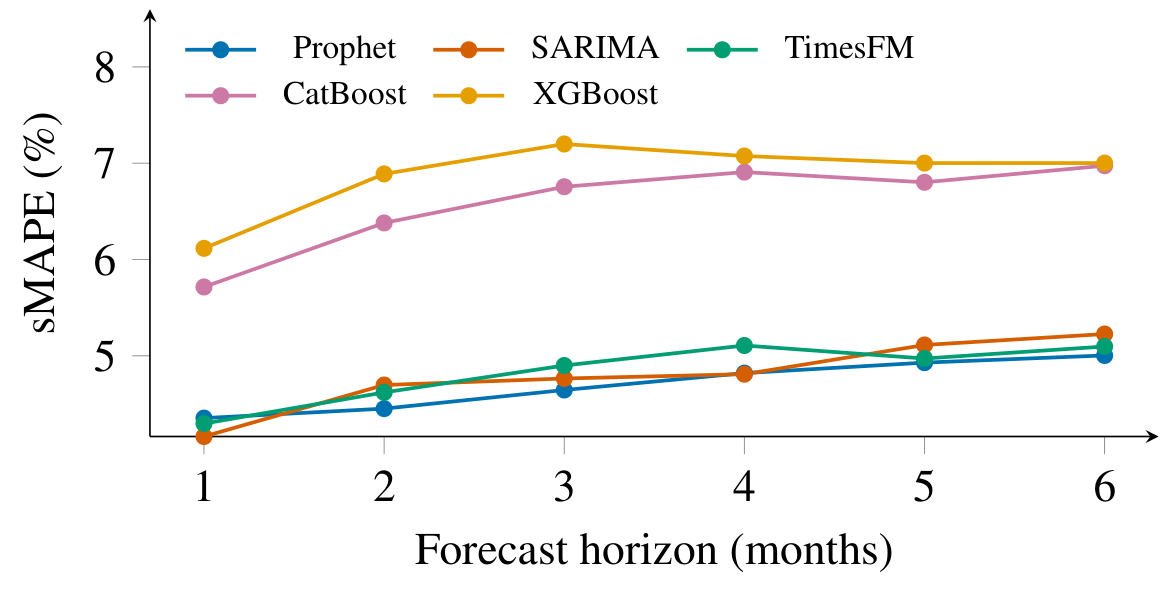
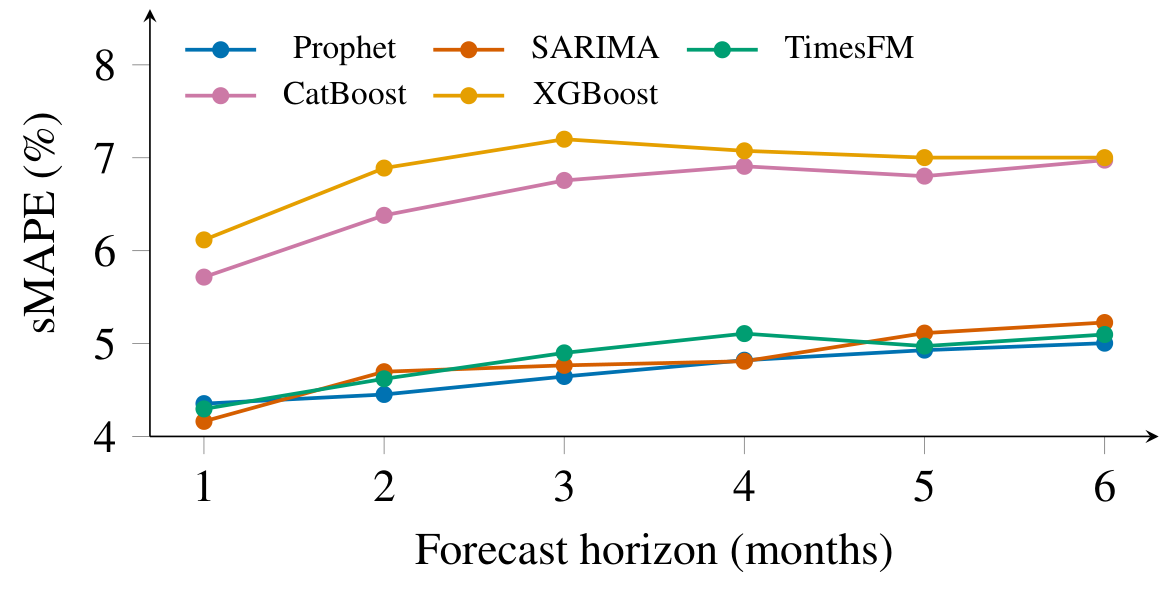
O Prophet entra na figura da temperatura, e a fig3 ganha o eixo que faltava
A Figura 6 mostrava tres modelos e a Tabela 5 tem quatro. O Prophet ficava de fora da
lista desde quando estava fora da comparacao inteira, por um motivo que a revisao
mostrou nao proceder; a tabela foi corrigida e a figura nao. Como o Prophet e o unico
modelo que a covariavel piora, a figura mostrava so ganhos positivos e contava o
oposto da tabela ao lado dela. Com ele, as quatro linhas ficam ordenadas pela
sazonalidade que cada especificacao ja carrega, e o gradiente que sustenta o
argumento do mecanismo passa a ser visivel: negativo no Prophet, que ajusta
sazonalidade anual explicita, maior nos dois boosters, cujos unicos atributos sao doze
defasagens.

A legenda da figura estava duplamente velha: dizia "all three intervals" e repetia que
nenhum atinge o limiar por horizonte. Sao quatro, o do Prophet contem zero, e o
XGBoost atinge desde a regeneracao. Era a mesma afirmacao que ja fora corrigida no
corpo do texto, sobrevivendo na legenda.

Na Figura 3 nao havia ymin nem ytick explicitos. A escolha automatica punha a marca
mais baixa em 5 e deixava os tres modelos lideres abaixo dela, sem referencia de
leitura, com o ponto do SARIMA em h=1 encostado no eixo.

diff --git a/scripts/build_paper_assets.py b/scripts/build_paper_assets.py
@@ -744,7 +744,10 @@ this comparison rather than being given an input it would ignore.
   axis lines=left, tick align=outside, tick pos=left,
   legend style={{at={{(0.02,0.98)}}, anchor=north west, draw=none, fill=none,
                  font=\scriptsize, legend columns=3, column sep=4pt}},
-  ymax=8.6,
+  ymin=4, ymax=8.6, ytick={{4,5,6,7,8}},
+  % Sem o ymin e o ytick explicitos, a escolha automatica punha a marca mais baixa em
+  % 5 e os tres modelos lideres ficavam abaixo dela, sem nenhuma referencia de leitura,
+  % com o ponto do SARIMA em h=1 encostado no eixo.
 ]
 {chr(10).join(series_h)}
 \legend{{{','.join(leg)}}}
@@ -828,7 +831,14 @@ this comparison rather than being given an input it would ignore.
 \end{{tikzpicture}}""")
 
     # ---------- fig6: efeito da temperatura ----------
-    mods = ["sarima", "catboost", "xgboost"]
+    # O Prophet entra. Ele ficava de fora desta lista desde quando estava fora da
+    # comparacao inteira, por um motivo que a revisao mostrou nao proceder. A Tabela 5
+    # foi corrigida e passou a ter as quatro linhas; a figura nao, e ficou mostrando so
+    # os tres ganhos positivos. Como o Prophet e o unico modelo que a covariavel piora,
+    # e como e nele que o argumento do mecanismo se apoia -- o ganho e inverso a
+    # sazonalidade que o modelo ja tem --, omiti-lo fazia a figura contar o oposto da
+    # tabela ao lado.
+    mods = ["prophet", "sarima", "catboost", "xgboost"]
     linhas = []
     for i, m in enumerate(mods):
         y = len(mods) - i
@@ -842,19 +852,19 @@ this comparison rather than being given an input it would ignore.
     labs = ",".join(ROTULO[m] for m in mods)
     escreve_figura("fig6_temperatura", rf"""\begin{{tikzpicture}}
 \begin{{axis}}[
-  width=0.78\textwidth, height=3.8cm,
+  width=0.78\textwidth, height=4.6cm,
   xlabel={{Reduction in sMAPE from the temperature covariate (pp)}},
-  xmin=-0.06, xmax=0.62,
+  xmin=-0.12, xmax=0.62,
   % com valores pequenos o pgfplots gera tick automatico em notacao cientifica
   % (-5 \cdot 10^{-2}) e os rotulos colidem. Tick e formato explicitos.
-  xtick={{0,0.1,0.2,0.3,0.4,0.5,0.6}},
+  xtick={{-0.1,0,0.1,0.2,0.3,0.4,0.5,0.6}},
   scaled x ticks=false,
   xticklabel style={{/pgf/number format/fixed, /pgf/number format/precision=1}},
-  ymin=0.4, ymax=3.6, ytick={{{ticks}}}, yticklabels={{{labs}}},
+  ymin=0.4, ymax=4.6, ytick={{{ticks}}}, yticklabels={{{labs}}},
   axis lines=left, tick align=outside, tick pos=left,
 ]
 \draw[black!45, dashed, line width=0.6pt]
-  (axis cs:0,0.4) -- (axis cs:0,3.6);
+  (axis cs:0,0.4) -- (axis cs:0,4.6);
 {chr(10).join(linhas)}
 \end{{axis}}
 \end{{tikzpicture}}""")

diff --git a/paper/figures/fig6_temperatura.tex b/paper/figures/fig6_temperatura.tex
@@ -1,19 +1,21 @@
 % gerado por scripts/build_paper_assets.py -- nao editar a mao
 \begin{tikzpicture}
 \begin{axis}[
-  width=0.78\textwidth, height=3.8cm,
+  width=0.78\textwidth, height=4.6cm,
   xlabel={Reduction in sMAPE from the temperature covariate (pp)},
-  xmin=-0.06, xmax=0.62,
+  xmin=-0.12, xmax=0.62,
   % com valores pequenos o pgfplots gera tick automatico em notacao cientifica
   % (-5 \cdot 10^-2) e os rotulos colidem. Tick e formato explicitos.
-  xtick={0,0.1,0.2,0.3,0.4,0.5,0.6},
+  xtick={-0.1,0,0.1,0.2,0.3,0.4,0.5,0.6},
   scaled x ticks=false,
   xticklabel style={/pgf/number format/fixed, /pgf/number format/precision=1},
-  ymin=0.4, ymax=3.6, ytick={3,2,1}, yticklabels={SARIMA,CatBoost,XGBoost},
+  ymin=0.4, ymax=4.6, ytick={4,3,2,1}, yticklabels={Prophet,SARIMA,CatBoost,XGBoost},
   axis lines=left, tick align=outside, tick pos=left,
 ]
 \draw[black!45, dashed, line width=0.6pt]
-  (axis cs:0,0.4) -- (axis cs:0,3.6);
+  (axis cs:0,0.4) -- (axis cs:0,4.6);
+\addplot[draw=cprophet, line width=2.0pt, mark=none] coordinates {(-0.0808,4) (0.0129,4)};
+\addplot[only marks, mark=*, mark size=2.2pt, draw=cprophet, fill=cprophet] coordinates {(-0.0346,4)};
 \addplot[draw=csarima, line width=2.0pt, mark=none] coordinates {(0.0340,3) (0.2573,3)};
 \addplot[only marks, mark=*, mark size=2.2pt, draw=csarima, fill=csarima] coordinates {(0.1358,3)};
 \addplot[draw=ccatboost, line width=2.0pt, mark=none] coordinates {(0.0728,2) (0.4519,2)};

diff --git a/paper/manuscript.tex b/paper/manuscript.tex
@@ -573,9 +573,12 @@ what it was adding to the boosting models was the calendar.
 \input{figures/fig6_temperatura}
 \caption{Reduction in sMAPE from adding monthly minimum temperature as an exogenous
 covariate under the leakage-free climatology policy, with 95\% paired bootstrap intervals.
-Positive values favour the model with temperature. All three intervals exclude zero, which
-is why the effect is reported as suggestive rather than absent, and none clears the
-pre-declared horizon-level threshold, which is why it is not reported as established.}
+Positive values favour the model with temperature. The four models are ordered by how much
+seasonal structure their specification already carries, and the gain grows as that
+structure falls away: it is negative for Prophet, which fits an explicit annual
+seasonality, and largest for the two boosting models, whose only inputs are twelve lags.
+Three intervals exclude zero, but only XGBoost also reaches the pre-declared horizon-level
+threshold, so it is the one row reported as established rather than suggestive.}
 \label{fig:temp}
 \end{figure}
 

diff --git a/paper/figures/fig3_horizonte.tex b/paper/figures/fig3_horizonte.tex
@@ -7,7 +7,10 @@
   axis lines=left, tick align=outside, tick pos=left,
   legend style={at={(0.02,0.98)}, anchor=north west, draw=none, fill=none,
                  font=\scriptsize, legend columns=3, column sep=4pt},
-  ymax=8.6,
+  ymin=4, ymax=8.6, ytick={4,5,6,7,8},
+  % Sem o ymin e o ytick explicitos, a escolha automatica punha a marca mais baixa em
+  % 5 e os tres modelos lideres ficavam abaixo dela, sem nenhuma referencia de leitura,
+  % com o ponto do SARIMA em h=1 encostado no eixo.
 ]
 \addplot[draw=cprophet, mark=*, mark size=1.6pt, line width=0.9pt, mark options={draw=cprophet, fill=cprophet}] coordinates {(1,4.3538) (2,4.4520) (3,4.6456) (4,4.8209) (5,4.9294) (6,5.0041)};
 \addplot[draw=csarima, mark=*, mark size=1.6pt, line width=0.9pt, mark options={draw=csarima, fill=csarima}] coordinates {(1,4.1625) (2,4.6971) (3,4.7652) (4,4.8096) (5,5.1129) (6,5.2266)};
